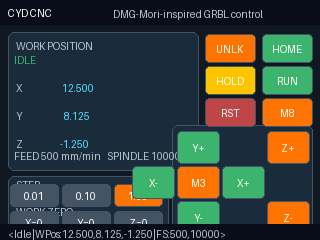
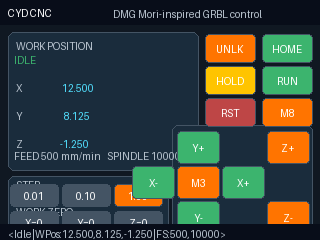
docs: align DMG Mori naming
Agent-Logs-Url: https://github.com/lostdogg/cyd-cnc/sessions/8d572b1d-e845-4a44-ae56-e998a1613b13

Changed region(s): [[0.4375, 0.0292, 0.8438, 0.0875]]

diff --git a/src/main.cpp b/src/main.cpp
@@ -317,7 +317,7 @@ void drawStaticUi() {
   gfx->setTextColor(kMutedText, 0x0841);
   gfx->setTextSize(1);
   gfx->setCursor(114, 8);
-  gfx->print("DMG-Mori-inspired GRBL control");
+  gfx->print("DMG Mori-inspired GRBL control");
 
   gfx->fillRoundRect(8, 32, 190, 138, 6, kPanel);
   gfx->drawRoundRect(8, 32, 190, 138, 6, kPanelOutline);
@@ -555,7 +555,7 @@ void configureBacklight() {
   ledcWrite(0, 220);
 }
 
-void initialiseGrbl() {
+void initializeGrbl() {
   grblSerial.begin(kGrblBaud, SERIAL_8N1, kGrblRxPin, kGrblTxPin);
   delay(50);
   grblSerial.print("\r\n\r\n");
@@ -577,7 +577,7 @@ void setup() {
   drawStaticUi();
   drawDynamicUi(true);
 
-  initialiseGrbl();
+  initializeGrbl();
   drawDynamicUi(true);
 }
 

diff --git a/README.md b/README.md
@@ -7,7 +7,7 @@ ESP32-2432S028 ("Cheap Yellow Display") firmware for driving a GRBL-based deskto
 ## What is included
 
 - A PlatformIO firmware project for the ESP32-2432S028
-- A DMG-Mori-inspired operator screen with:
+- A DMG Mori-inspired operator screen with:
   - GRBL status display
   - X/Y/Z work position readout
   - touch jogging
